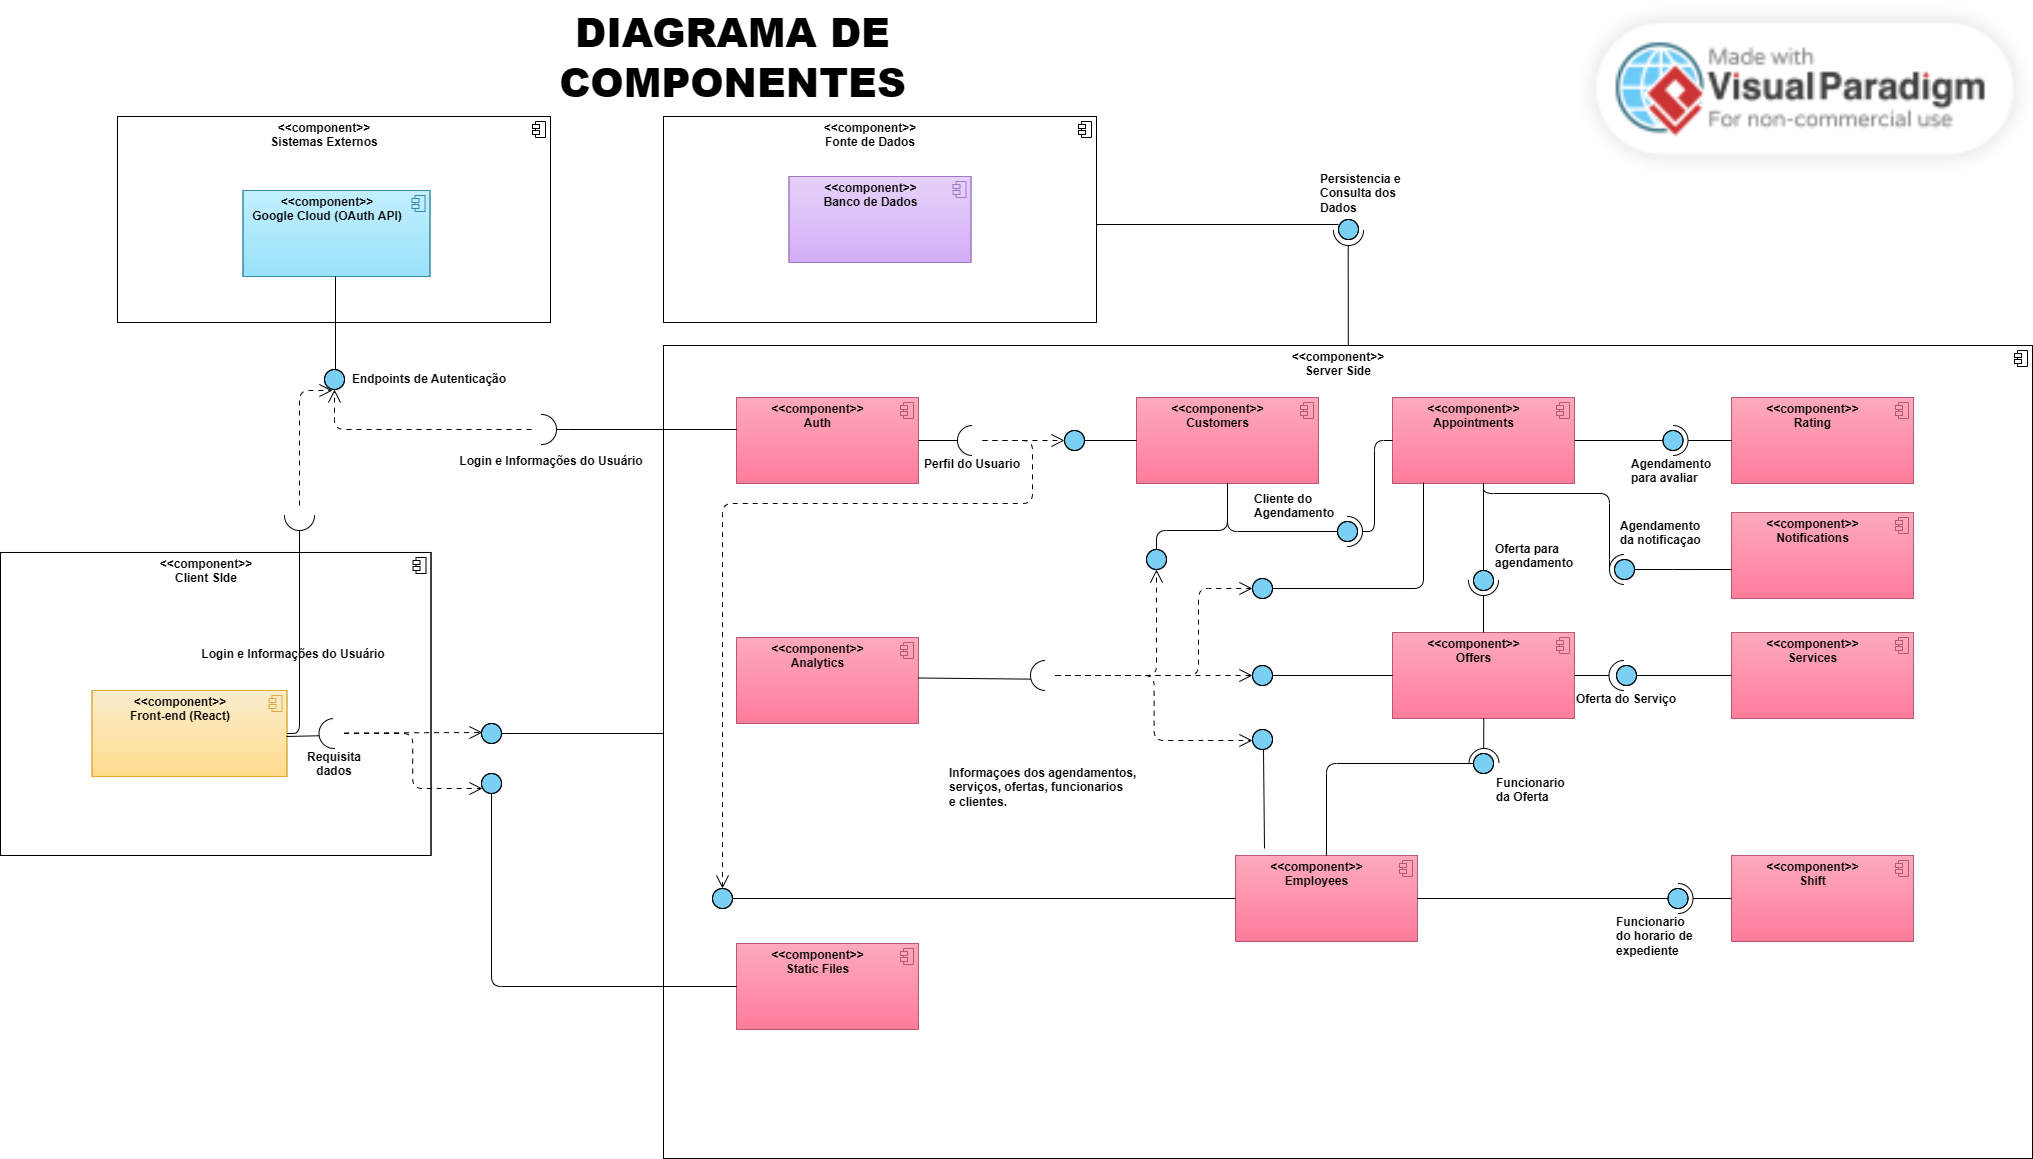
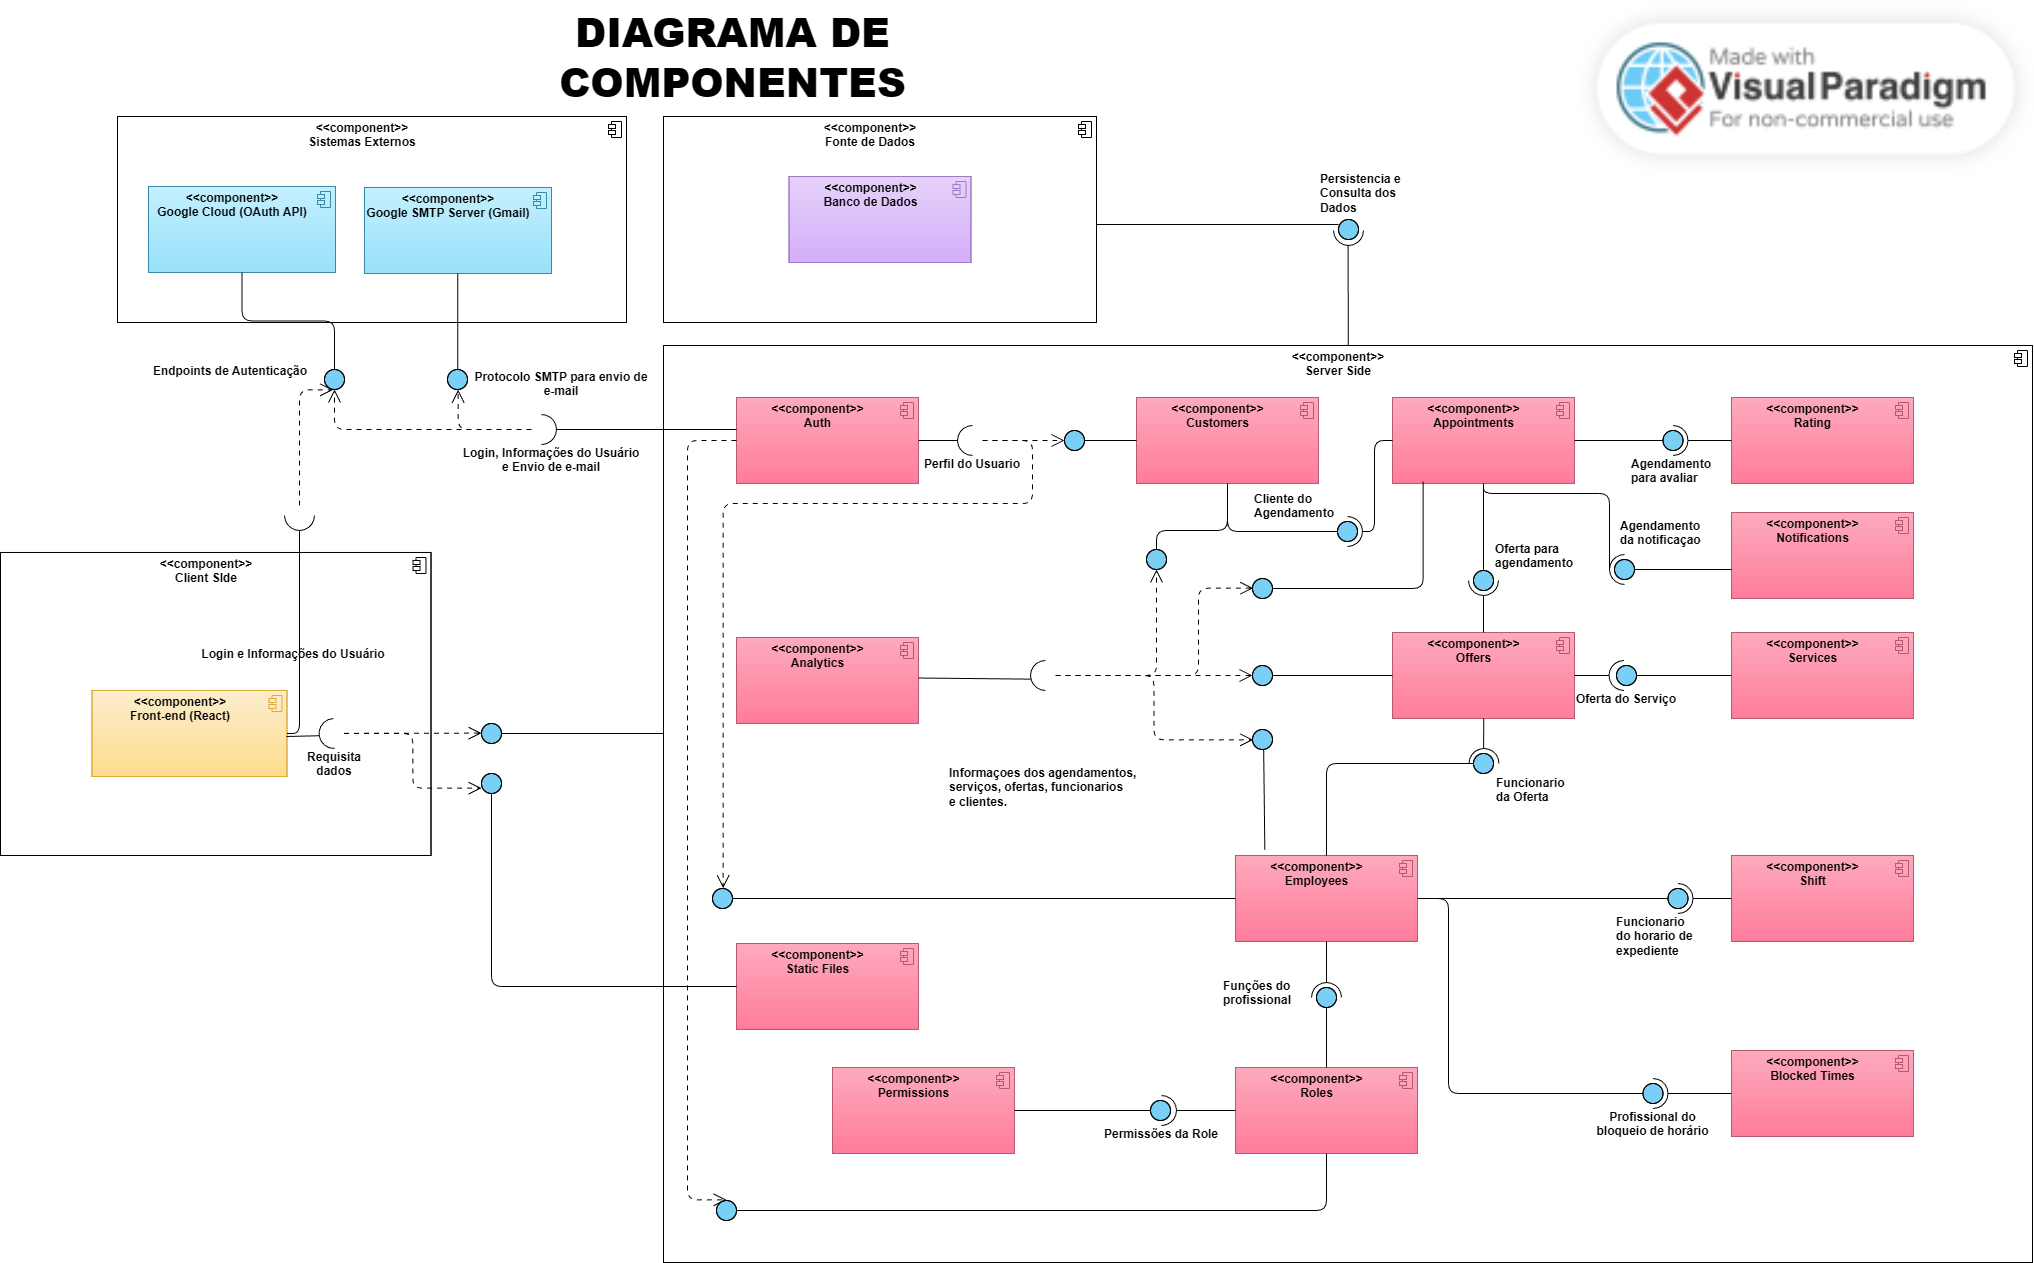
feat: update architecture documentation to include new components and clarify existing ones
- Added new components: Permissions, Roles, and Blocked Times to the architecture description.
- Corrected the description for the Customers component to reflect its purpose accurately.
- Enhanced the Redis section to detail its role in the application.
- Updated Google Cloud integration details to include SMTP server usage for email notifications.

diff --git a/docs/documentation/abntex2/cap04-desenvolvimento/04-03-arquitetura.tex b/docs/documentation/abntex2/cap04-desenvolvimento/04-03-arquitetura.tex
@@ -52,9 +52,16 @@ No diagrama de componentes proposto, a aplicação é composta por diversos mód
 
   \item \textbf{\emph{Appointments}}: Gerencia os agendamentos realizados pelos clientes. Engloba tanto a criação, listagem e atualização dos agendamentos quanto a associação com os serviços ofertados.
 
-  \item \textbf{\emph{Customers}}: Controla os dados relacionados aos clientes da plataforma. Permite o cadastro, consulta e edição de informações do perfil dos usuários.
+  \item \textbf{\emph{Professionals}}: Controla os dados relacionados aos clientes da plataforma. Permite o cadastro, consulta e edição de informações do perfil dos usuários.
 
   \item \textbf{\emph{Professionals}}: Administra os dados dos profissionais que prestam serviços na aplicação, incluindo informações cadastrais, disponibilidade e associação a serviços específicos.
+
+  \item \textbf{\emph{Permissions}}: Gerencia as permissões granulares do sistema, definindo ações e privilégios que podem ser atribuídos a papéis (roles) ou diretamente a usuários. Esse módulo é utilizado pelo mecanismo de autorização para controlar o acesso a recursos e operações sensíveis da aplicação.
+
+  \item \textbf{\emph{Roles}}: Responsável pelo gerenciamento de papéis (roles) que agrupam permissões, simplificando a atribuição de conjuntos de privilégios a profissionais ou usuários. Facilita a administração de acesso em grande escala e a composição de políticas de autorização.
+
+  \item \textbf{\emph{Blocked Times}}: Trata do registro de períodos temporários em que um profissional não está disponível (por exemplo, férias, ausências ou compromissos). Diferencia-se dos turnos regulares (
+\emph{Shift}) por representar exceções pontuais que impedem o agendamento de atendimentos.
 
   \item \textbf{\emph{Notifications}}: Responsável por enviar notificações aos usuários, como lembretes, confirmações de agendamento e atualizações importantes. Pode incluir o envio por \emph{e-mail} ou outros canais.
 
@@ -97,15 +104,15 @@ O diagrama acima é composto pelos seguintes componentes:
     \begin{itemize}
       \item A \textit{\gls{api} (Back-end em NodeJS)}: Principal serviço da aplicação, sendo o responsável por prover os \emph{"endpoints"} que fornecem os dados e arquivos estáticos para o \textit{front-end} através de uma \textit{\gls{api} RestFull}, se comunicando com o banco de dados, um componente que é executado no mesmo dispositivo.
       \item \textit{Banco de Dados (\gls{sgbd} MariaDB)}: Serviço de \gls{sgbd} que provê os dados para o \textit{back-end} da aplicação, o que possibilita a persistência e consulta de forma eficiente. Para garantir a persistência dos dados gerenciados pelo MariaDB, o contêiner utiliza volumes \emph{Docker} montados na instância \gls{ec2} privada. Isso assegura que os dados não sejam perdidos em reinicializações do contêiner.
+      \item \textit{Redis}: Banco de dados em memória utilizado para a persistência de dados efêmeros e de acesso rápido, como cache de respostas, sessões e armazenamento temporário de códigos de autenticação/validação. O uso do \emph{Redis} melhora a performance em operações que exigem baixa latência e é empregado para suportar tarefas de autenticação (geração e busca de códigos) e mecanismos de cache da aplicação.
     \end{itemize}
-  Além dos serviços em execução, a instância privada também contém os seguintes artefatos essenciais para o empacotamento e execução dos serviços via contêineres \emph{Docker}~\cite{DockerDocs}:
+    Além dos serviços em execução, a instância privada também contém os seguintes artefatos essenciais para o empacotamento e execução dos serviços via contêineres \emph{Docker}~\cite{DockerDocs}:
     \begin{itemize}
       \item \textit{Dockerfile}: Esse artefato descreve as instruções necessárias para criar a imagem \emph{Docker} da aplicação \textit{back-end}, especificando o ambiente base (como a imagem do Node.js), os arquivos a serem copiados, dependências a serem instaladas e os comandos de inicialização da aplicação.
-
       \item \textit{docker-compose.yaml}: Esse arquivo é utilizado como ferramenta de orquestração para os serviços \emph{Docker}~\cite{DockerComposeDocs} da aplicação. Ele define a configuração dos contêineres da aplicação, como o contêiner da \gls{api} e o do banco de dados, bem como as variáveis de ambiente, volumes, redes e dependências entre os serviços. É a partir deste artefato que os contêineres são gerados e executados de forma integrada.
     \end{itemize}
 
-  \item \textbf{\textit{Google Cloud (Device):}} Localizada na nuvem pública da Google (\textit{Google Cloud}), essa \gls{api} é utilizada pelo \emph{back-end} da aplicação para realizar a autenticação de usuários através do protocolo \emph{OAuth} 2.0 \cite{GoogleOAuth}. Esse processo ocorre quando o usuário opta por fazer \emph{login} com sua conta Google. Nesse cenário, a aplicação redireciona o usuário para a tela de autenticação da Google, e após a confirmação, a \gls{api} recebe um \textit{token} de acesso que é utilizado para obter as informações do usuário autenticado. Esse fluxo garante uma autenticação segura, delegando a responsabilidade da validação de identidade à Google.
+  \item \textbf{\textit{Google Cloud (Device):}} Localizada na nuvem pública da Google (\textit{Google Cloud}), essa \gls{api} é utilizada pelo \emph{back-end} da aplicação para realizar a autenticação de usuários através do protocolo \emph{OAuth} 2.0 \cite{GoogleOAuth}. Esse processo ocorre quando o usuário opta por fazer \emph{login} com sua conta Google. Nesse cenário, a aplicação redireciona o usuário para a tela de autenticação da Google, e após a confirmação, a \gls{api} recebe um \textit{token} de acesso que é utilizado para obter as informações do usuário autenticado. Esse fluxo garante uma autenticação segura, delegando a responsabilidade da validação de identidade à Google. Além disso, o \emph{back-end} integra-se ao servidor SMTP do Gmail para o envio de e-mails aos usuários (por exemplo: notificações de agendamento, códigos de verificação e recuperação de senha), conforme previsto no diagrama de componentes.
 \end{itemize}
 
 O fluxo de execução típico da aplicação baseado no diagrama de implantação acima segue os seguintes passos:
